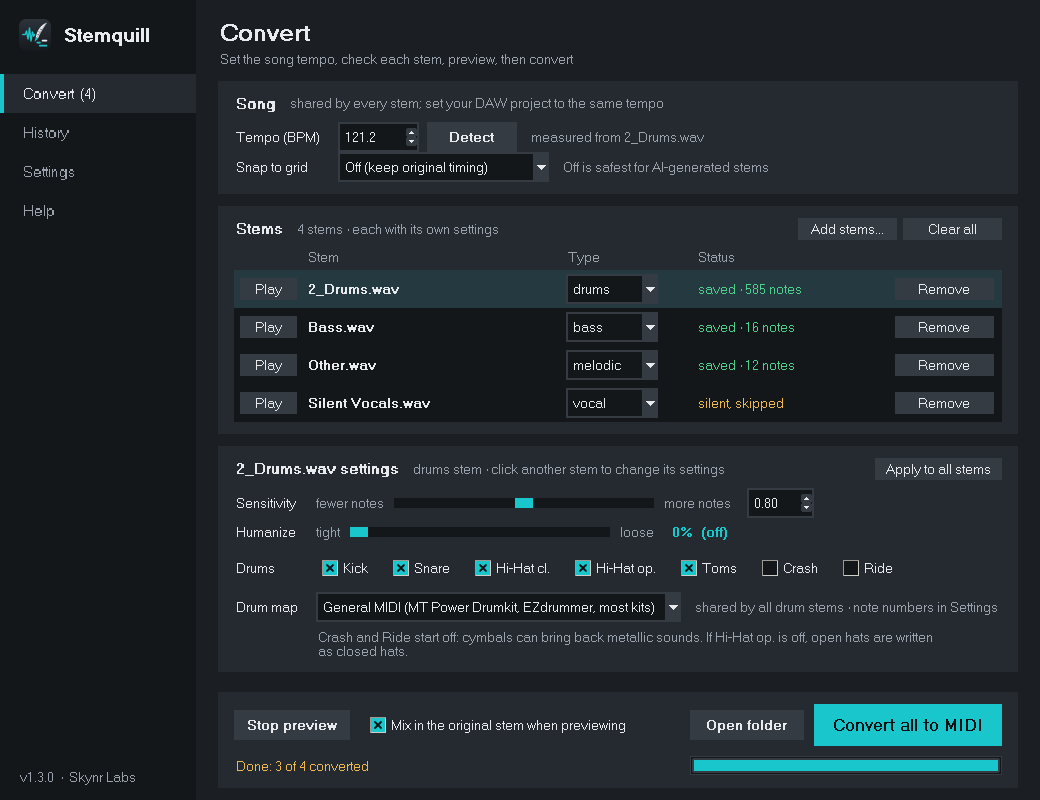
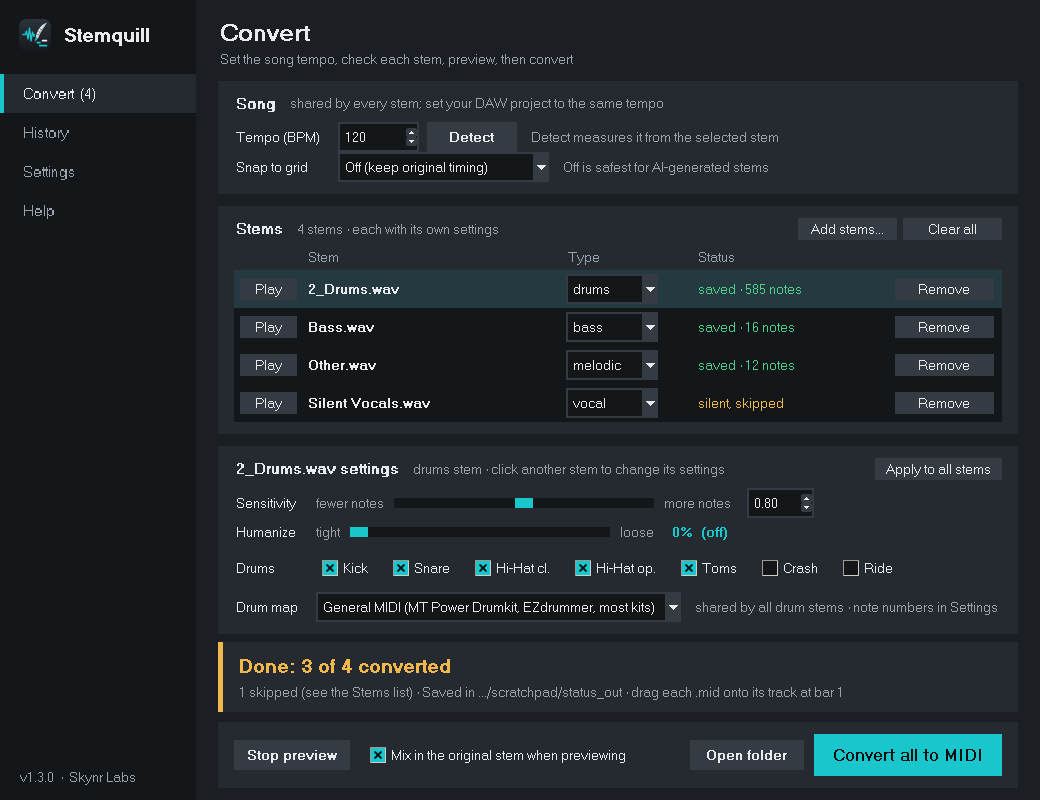
Status card above the Convert bar
- Large message in teal (working, with progress bar), green (done), amber (needs attention)
- Second line with detail: where files were saved, how many were skipped, what to do next
- Bottom bar is now buttons only; cymbal hint moved to Help so the drum card fits

Claude-Session: https://claude.ai/code/session_01JiQM3hLKf5xq6onPfzHo7P

diff --git a/stemquill/gui/journeys.py b/stemquill/gui/journeys.py
@@ -77,8 +77,8 @@ class ConvertJourney:
             self._status(stem, "waiting...", "muted")
         app.set_busy(True)
         app.action.open_btn.state(["disabled"])
-        app.say("Working...")
-        app.action.progress.configure(maximum=len(stems), value=0)
+        app.say(f"Converting {plural(len(stems), 'stem')}...", "busy", "Each row shows its result as it finishes")
+        app.status_card.start_progress(len(stems))
         threading.Thread(target=self._work, args=(stems, c, app.settings_page.out_dir), daemon=True).start()
 
     def _status(self, stem, text, kind, saved=None):
@@ -97,8 +97,8 @@ class ConvertJourney:
             msg = f"Converting {name}  ({i + 1} of {len(stems)})"
             app.post(
                 lambda m=msg, v=i, s=stem: (
-                    app.say(m),
-                    app.action.progress.configure(value=v),
+                    app.say(m, "busy", "Each row shows its result as it finishes"),
+                    app.status_card.set_progress(v),
                     self._status(s, "converting...", "busy"),
                 )
             )
@@ -141,8 +141,15 @@ class ConvertJourney:
     def _finish(self, ok, total):
         app = self.app
         app.set_busy(False)
-        app.action.progress["value"] = total
-        app.say(f"Done: {ok} of {total} converted" if total else "Ready", "ok" if ok == total else "warn")
+        app.status_card.set_progress(total)
+        skipped = total - ok
+        if ok:
+            detail = f"Saved in {short_path(self.last_out_dir)} · drag each .mid onto its track at bar 1"
+            if skipped:
+                detail = f"{skipped} skipped (see the Stems list) · " + detail
+        else:
+            detail = "Check the Stems list for what went wrong"
+        app.say(f"Done: {ok} of {total} converted", "ok" if ok == total else "warn", detail)
         if self.last_out_dir:
             app.action.open_btn.state(["!disabled"])
             if app.settings_page.open_when_done.get() and ok:
@@ -166,7 +173,7 @@ class PreviewJourney:
         self.player.stop()
         stem = app.convert_page.selected_stem()
         app.set_busy(True)
-        app.say(f"Building preview of {stem.name}...")
+        app.say(f"Building preview of {stem.name}...", "busy", "This takes a few seconds")
         include = app.action.with_original.get()
         threading.Thread(target=self._work, args=(stem, c, include), daemon=True).start()
 
@@ -202,9 +209,13 @@ class PreviewJourney:
         app.set_busy(False)
         try:
             self.player.play(PREVIEW_WAV)
-            app.say(f"Playing {os.path.basename(f)}: {n} notes. Happy with it? Click Convert all to save.", "ok")
+            app.say(
+                f"Playing {os.path.basename(f)} · {n} notes",
+                "ok",
+                "Happy with it? Click Convert all to MIDI to save. Stop preview ends playback.",
+            )
         except Exception as exc:
-            app.say(f"Couldn't play audio ({exc}). Preview saved to {PREVIEW_WAV}", "warn")
+            app.say("Couldn't play the preview", "warn", f"{exc}. The preview was saved to {PREVIEW_WAV}")
 
     def stop(self):
         self.player.stop()
@@ -228,7 +239,7 @@ class TempoJourney:
             return
         f = stem.path
         app.set_busy(True)
-        app.say(f"Measuring tempo of {os.path.basename(f)}...")
+        app.say(f"Measuring the tempo of {os.path.basename(f)}...", "busy", "This takes a few seconds")
         threading.Thread(target=self._work, args=(f,), daemon=True).start()
 
     def _work(self, f):
@@ -244,7 +255,7 @@ class TempoJourney:
         app = self.app
         app.set_busy(False)
         app.convert_page.set_tempo(bpm, f)
-        app.say(f"Tempo detected: {bpm:g} BPM", "ok")
+        app.say(f"Tempo: {bpm:g} BPM", "ok", "Set your DAW project to the same tempo")
         feed = app.activity
         feed.action("Detect tempo")
         feed.stem(os.path.basename(f), f"{bpm:g} BPM", "Set your DAW project to the same tempo")

diff --git a/stemquill/gui/status_card.py b/stemquill/gui/status_card.py
@@ -1,0 +1,54 @@
+"""The status card above the Convert button: what's happening, in large type, with a colour to match.
+
+Teal while working (with a progress bar), green when done, amber when something needs attention.
+A second, smaller line adds detail such as where the files were saved.
+"""
+
+import tkinter as tk
+from tkinter import ttk
+
+from .theme import THEME as T
+
+COLORS = {"muted": "text", "busy": "accent", "ok": "ok", "warn": "warn"}
+EDGE = {"muted": "line", "busy": "accent", "ok": "ok", "warn": "warn"}
+
+
+class StatusCard(tk.Frame):
+    def __init__(self, parent, fonts):
+        super().__init__(parent, bg=T["card"])
+        self.columnconfigure(1, weight=1)
+        self.edge = tk.Frame(self, bg=T["line"], width=5)
+        self.edge.grid(row=0, column=0, rowspan=2, sticky="ns")
+        self.status = tk.StringVar(value="Ready")
+        self.detail = tk.StringVar(value="Add your stems, set the tempo, then Convert all")
+        self.kind = "muted"
+        self.msg_lbl = tk.Label(
+            self, textvariable=self.status, bg=T["card"], fg=T["text"], font=fonts["status"], anchor="w"
+        )
+        self.msg_lbl.grid(row=0, column=1, sticky="ew", padx=(14, 14), pady=(10, 0))
+        self.detail_lbl = tk.Label(
+            self, textvariable=self.detail, bg=T["card"], fg=T["muted"], font=fonts["body"], anchor="w"
+        )
+        self.detail_lbl.grid(row=1, column=1, sticky="ew", padx=(14, 14), pady=(2, 10))
+        self.progress = ttk.Progressbar(self, mode="determinate", style="Horizontal.TProgressbar", length=260)
+
+    def say(self, msg, kind="muted", detail=""):
+        """Show a message. kind: muted (plain), busy, ok or warn."""
+        self.kind = kind
+        self.status.set(msg)
+        self.detail.set(detail)
+        self.msg_lbl.configure(fg=T[COLORS.get(kind, "text")])
+        self.edge.configure(bg=T[EDGE.get(kind, "line")])
+        if kind != "busy":
+            self.stop_progress()
+
+    # ---- progress (only visible while converting)
+    def start_progress(self, maximum):
+        self.progress.configure(maximum=maximum, value=0)
+        self.progress.grid(row=0, column=2, rowspan=2, sticky="e", padx=(0, 16))
+
+    def set_progress(self, value):
+        self.progress.configure(value=value)
+
+    def stop_progress(self):
+        self.progress.grid_remove()

diff --git a/tests/test_gui.py b/tests/test_gui.py
@@ -149,7 +149,7 @@ def test_apply_to_all(app, monkeypatch, stems):
     p.card.apply_typed_sensitivity()
     p.apply_to_all()
     assert [s.sensitivity for s in p.stems] == [1.1, 1.1, 1.1]
-    assert "Applied" in app.action.status.get()
+    assert "Applied" in app.status_card.status.get()
 
 
 def test_changing_a_stems_type(app, monkeypatch, stems):
@@ -206,13 +206,17 @@ def test_detect_preview_and_convert(app, monkeypatch, stems):
     assert "Convert 3 stems" in text
     assert "sensitivity 1.20" in text  # per-stem setting recorded for the bass
     assert "Done | 2 of 3 saved" in text
-    assert app.action.status.get() == "Done: 2 of 3 converted"
+    assert app.status_card.status.get() == "Done: 2 of 3 converted"
+    assert app.status_card.kind == "warn"  # one stem was skipped
+    assert "1 skipped" in app.status_card.detail.get()
+    assert not app.status_card.progress.winfo_ismapped()
 
 
 def test_convert_without_stems_says_what_to_do(app):
     app.converter.start()
     app.root.update()
-    assert app.action.status.get() == "Add at least one stem first"
+    assert app.status_card.status.get() == "Add at least one stem first"
+    assert app.status_card.kind == "warn"
 
 
 def test_bad_drum_note_sends_you_to_settings(app, monkeypatch, stems):
@@ -221,7 +225,7 @@ def test_bad_drum_note_sends_you_to_settings(app, monkeypatch, stems):
     app.converter.start()
     app.root.update()
     assert app.page_title.get() == "Settings"
-    assert "0 to 127" in app.action.status.get()
+    assert "0 to 127" in app.status_card.status.get()
 
 
 def test_drum_map_is_shared_between_card_and_settings(app, monkeypatch, stems):
@@ -316,3 +320,16 @@ def test_empty_message_is_not_a_table_row(app):
     feed.clear()
     app.root.update()
     assert feed.empty_note.winfo_ismapped()
+
+
+def test_status_card_colours_and_progress(app):
+    card = app.status_card
+    assert card.status.get() == "Ready"
+    card.start_progress(4)
+    card.say("Converting 4 stems...", "busy")
+    app.root.update()
+    assert card.progress.winfo_ismapped()
+    card.say("Done: 4 of 4 converted", "ok", "Saved in ...")
+    app.root.update()
+    assert not card.progress.winfo_ismapped()
+    assert card.msg_lbl.cget("fg") == card.edge.cget("bg")  # message and edge share the colour

diff --git a/stemquill/gui/app.py b/stemquill/gui/app.py
@@ -15,6 +15,7 @@ from .journeys import ConvertJourney, PreviewJourney, TempoJourney
 from .pages import PAGES, ConvertPage, HelpPage, HistoryPage, SettingsPage
 from .shortcuts import bind_shortcuts
 from .sidebar import Sidebar
+from .status_card import StatusCard
 from .theme import THEME, apply_styles, make_fonts
 
 IS_WINDOWS = sys.platform.startswith("win")
@@ -112,8 +113,10 @@ class StemquillApp:
         for page in self.pages.values():
             page.grid(row=0, column=0, sticky="nsew")
 
+        self.status_card = StatusCard(main, self.fonts)
+        self.status_card.grid(row=2, column=0, sticky="ew", pady=(4, 10))
         self.action = ActionBar(main)
-        self.action.grid(row=2, column=0, sticky="ew", pady=(4, 0))
+        self.action.grid(row=3, column=0, sticky="ew")
 
     def _wire_buttons(self):
         self.action.stop_btn.configure(command=self.preview.stop)
@@ -146,8 +149,9 @@ class StemquillApp:
         """Run fn on the window's thread (safe to call from a background thread)."""
         self.updates.put(fn)
 
-    def say(self, msg, color="muted"):
-        self.action.say(msg, color)
+    def say(self, msg, kind="muted", detail=""):
+        """Show a message in the status card. kind: muted, busy, ok or warn."""
+        self.status_card.say(msg, kind, detail)
 
     def set_busy(self, on):
         self.busy = on

diff --git a/stemquill/gui/action_bar.py b/stemquill/gui/action_bar.py
@@ -1,12 +1,10 @@
-"""The bar along the bottom of every page: Stop, the preview option, Convert all, status and progress.
+"""The bar along the bottom of every page: Stop, the preview option, Open folder and Convert all.
 
 Play lives on each stem's row, so it's always clear which stem you're hearing.
 """
 
 import tkinter as tk
 from tkinter import ttk
-
-from .theme import THEME as T
 
 
 class ActionBar(ttk.Frame):
@@ -24,12 +22,3 @@ class ActionBar(ttk.Frame):
         self.open_btn.state(["disabled"])
         self.convert_btn = ttk.Button(self, text="Convert all to MIDI", style="Accent.TButton")
         self.convert_btn.grid(row=0, column=4, sticky="e")
-        self.status = tk.StringVar(value="Ready")
-        self.status_lbl = ttk.Label(self, textvariable=self.status, style="Card.TLabel", foreground=T["muted"])
-        self.status_lbl.grid(row=1, column=0, columnspan=3, sticky="w", pady=(10, 0))
-        self.progress = ttk.Progressbar(self, mode="determinate", style="Horizontal.TProgressbar", length=200)
-        self.progress.grid(row=1, column=3, columnspan=2, sticky="ew", pady=(10, 0))
-
-    def say(self, msg, color="muted"):
-        self.status.set(msg)
-        self.status_lbl.configure(foreground=T[color])

diff --git a/stemquill/gui/pages/help.py b/stemquill/gui/pages/help.py
@@ -73,7 +73,11 @@ HELP_TEXT = [
         "especially toms, ghost notes and busy strumming.",
     ),
     ("p", "Cleaner stems give better results. Bleed from other instruments means extra notes."),
-    ("p", "Crash and Ride start off because cymbals can bring back metallic sounds."),
+    (
+        "p",
+        "Crash and Ride start off because cymbals can bring back metallic sounds. "
+        "If Hi-Hat op. is off, open hats are written as closed hats.",
+    ),
     ("p", "The preview uses simple placeholder sounds. Your real instruments will sound much better."),
     ("h", "Keyboard shortcuts"),
     ("k", "Ctrl+O\tAdd stems"),

diff --git a/stemquill/gui/stem_settings.py b/stemquill/gui/stem_settings.py
@@ -111,15 +111,6 @@ class StemSettingsCard(ttk.Frame):
         link.pack(side="left", padx=(12, 0))
         link.configure(cursor="hand2")
         link.bind("<Button-1>", lambda e: on_open_settings())
-        ttk.Label(
-            self.drums,
-            text="Crash and Ride start off: cymbals can bring back metallic sounds. "
-            "If Hi-Hat op. is off, open hats are written as closed hats.",
-            style="Muted.TLabel",
-            wraplength=620,
-            justify="left",
-        ).grid(row=2, column=1, sticky="w", pady=(6, 0))
-
         self.show(None)
 
     # ---- showing a stem

diff --git a/stemquill/gui/theme.py b/stemquill/gui/theme.py
@@ -37,6 +37,7 @@ def make_fonts():
         "small": (family, 9),
         "btn": (family, 10, "bold"),
         "big": (family, 12, "bold"),
+        "status": (family, 14, "bold"),
         "nav": (family, 11),
         "mono": ("Consolas" if "Consolas" in families else "DejaVu Sans Mono", 9),
     }
